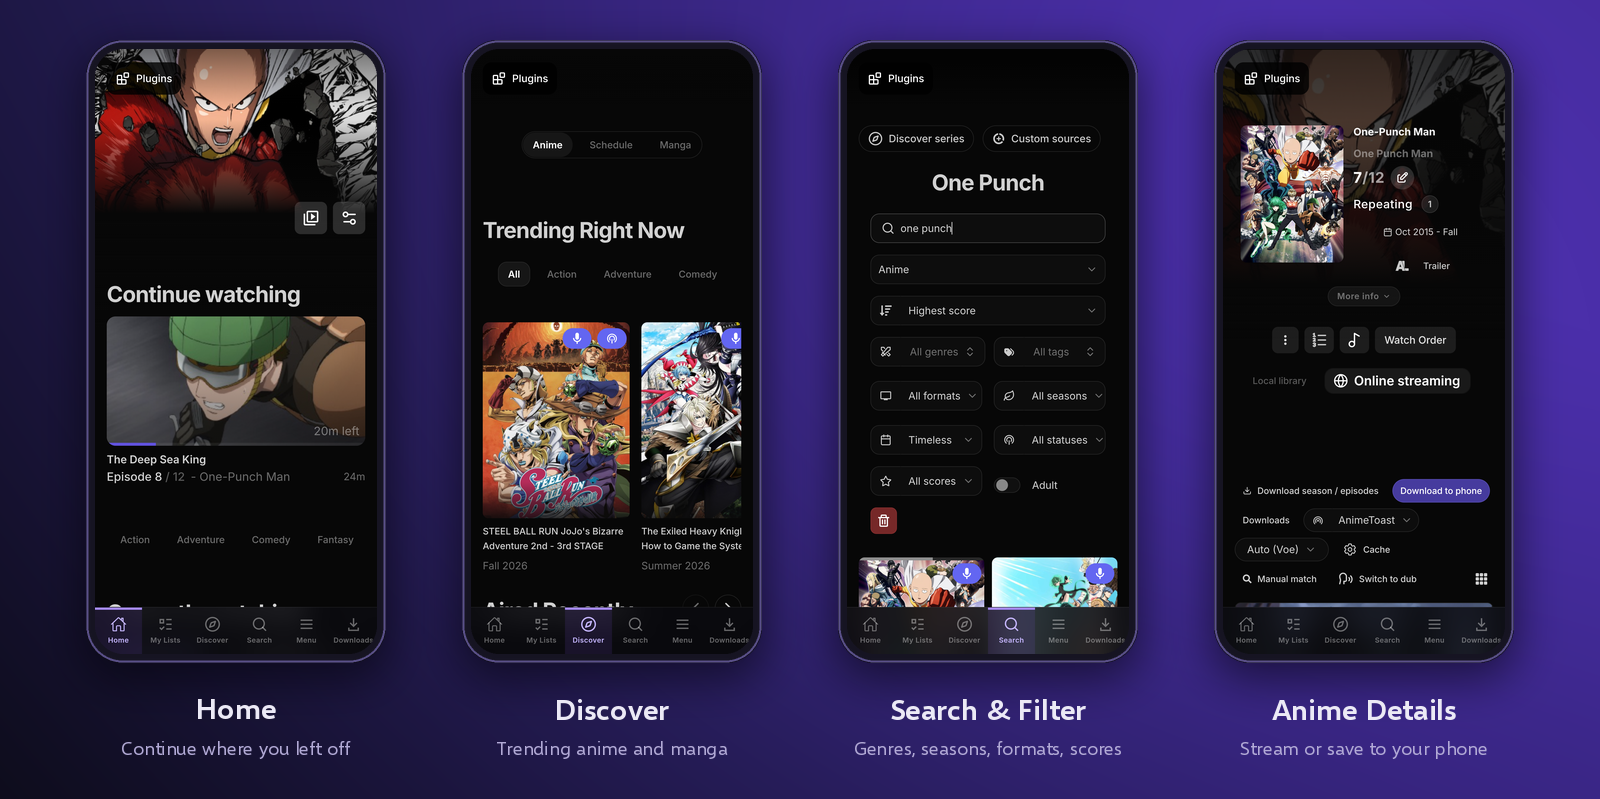
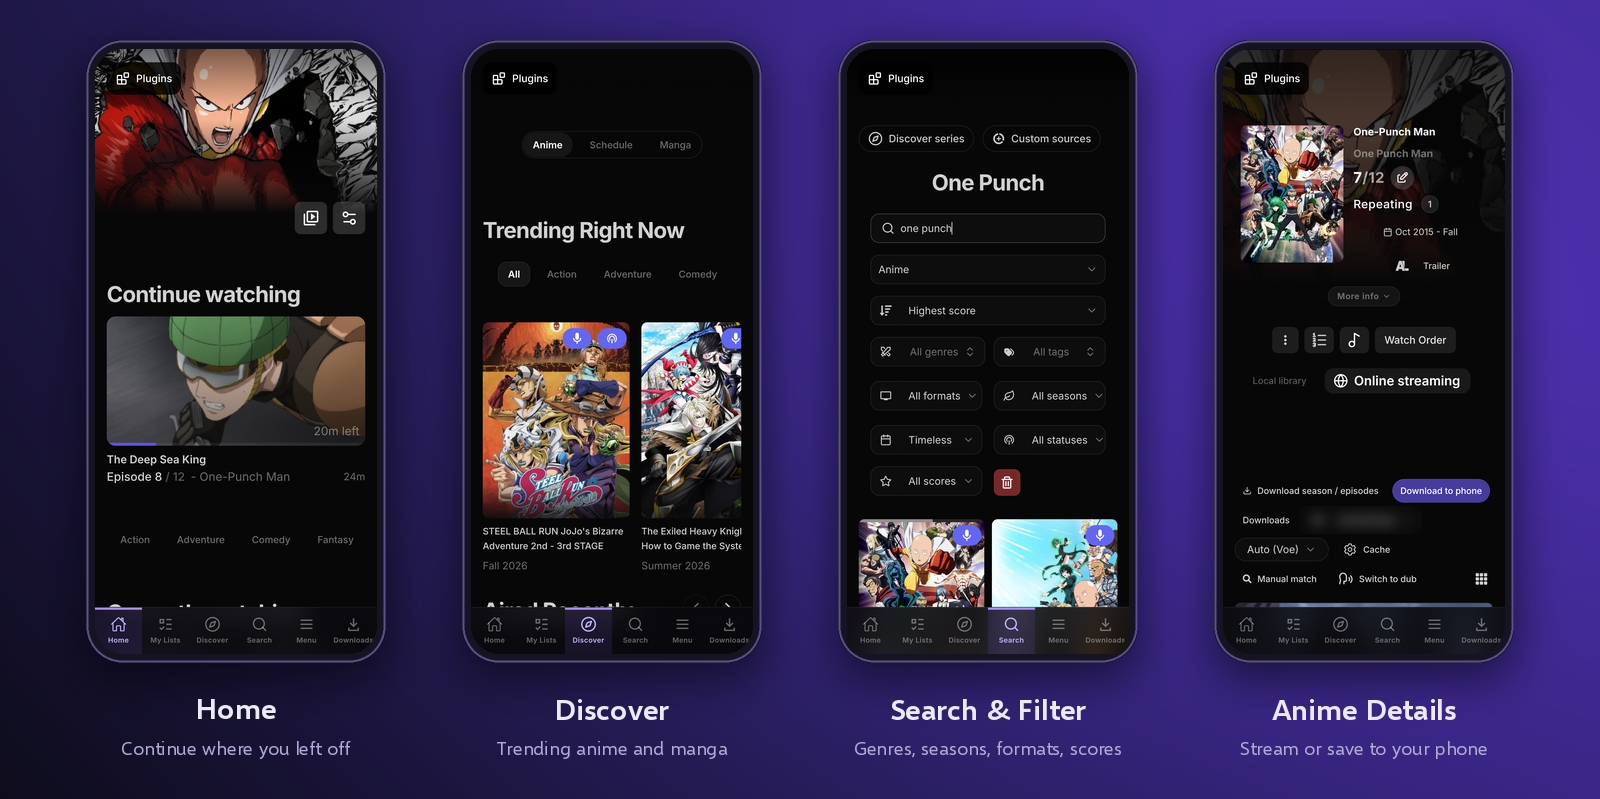
README: empty-start note for 1.8.1, search screenshot without Adult switch, source names blurred

Changed region(s): [[0.5312, 0.5707, 0.7188, 0.781], [0.8125, 0.6308, 0.875, 0.6608]]

diff --git a/README.md b/README.md
@@ -58,6 +58,7 @@ Supported: Android 5.0 or newer, ARM64 and ARMv7 (practically every phone from r
 
 1. **Open the app.** A short wizard asks for an anime folder (optional, leaving it empty is fine) and which features to use. Tap **Launch Seanime**. Android will also ask for file access (*Use streaming* is enough) and notifications (for download progress).
 2. **Log in with AniList.** In the dialog, tap **Get AniList token**, confirm in the browser and paste the token. You can create a free account at [anilist.co](https://anilist.co). To skip login, close the dialog with ✕ and the app will use a local account.
+   > **The app starts empty.** Until you add an AniList token or install a content extension (step 3), every page shows *No content yet* instead of anime or manga. Settings, Extensions and Downloads always work.
 3. **Add sources.** An **interactive tutorial** then starts automatically and guides you through the following steps ([video](#-tutorial-video)). To run it again later: *Settings → Extensions → Show tutorial*.
    The app ships **without** any streaming or manga sources. The official Seanime marketplace only contains plugins. Sources come from community repositories that you add yourself:
    1. Open *Menu → Extensions* and select the **Marketplace** tab at the top.
@@ -65,7 +66,7 @@ Supported: Android 5.0 or newer, ARM64 and ARMv7 (practically every phone from r
    3. The list reloads. Select **Online Streaming** (or **Manga**) at the top and tap the **download icon** next to the extension you want.
    4. Alternatively: in the *Installed* tab → **Add extensions** → **Import from repository**. This installs all extensions from a repository at once.
 
-   Without an extension, the app can only display anime and manga, not play or read them. Torrent extensions do not work in the Android version.
+   As soon as a streaming or manga extension is installed, anime and manga appear. With only an AniList account and no extension, the app shows your lists and the catalog but cannot play or read anything. Plugins alone do not unlock content. Torrent extensions do not work in the Android version.
 4. **Get started.** Tap an anime → *Online streaming* to watch, or *Download season / episodes* for offline viewing. Your saved content is in the **Downloads** tab at the bottom.
 
 ## 🎬 Tutorial video
@@ -83,6 +84,12 @@ This is what the first launch with the built-in tutorial looks like: wizard, add
 <summary><b>"App not installed" when updating</b></summary>
 
 The new APK must be signed with the same key as the installed one. That is the case for all official releases here. If you previously installed a self-built or third-party version, uninstall the old app first (local downloads will be lost).
+</details>
+
+<details>
+<summary><b>The app only shows "No content yet"</b></summary>
+
+That is intended on a fresh install: the app ships without any content. Tap **Add AniList token** to log in, or **Install extension** and add a streaming or manga extension from a repository ([First-time setup](#-first-time-setup), step 3). The pages fill up right away, no restart needed.
 </details>
 
 <details>
